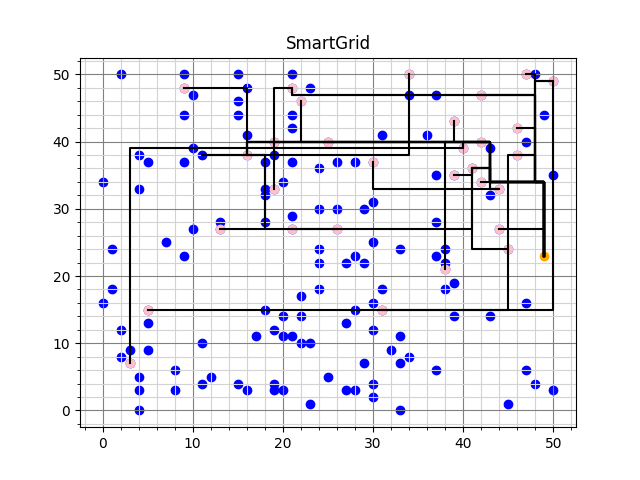
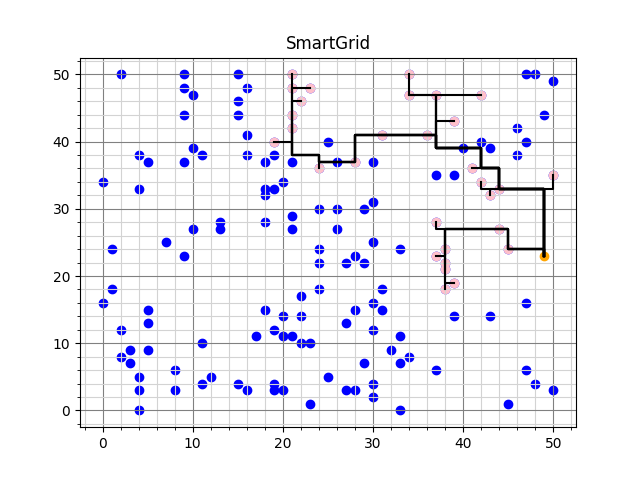
ZSKBU

Changed region(s): [[0.2188, 0.125, 0.875, 0.6562], [0.2812, 0.1562, 0.375, 0.1875], [0.1875, 0.7188, 0.2188, 0.7812]]

diff --git a/main.py b/main.py
@@ -24,13 +24,14 @@ if __name__ == "__main__":
     # file_name = "/home/thomas61197/SmartGrid/data/solutions/best_greedy_100k.pickle"
     # file_name = "/home/thomas61197/SmartGrid/data/solutions/best_original_greedy.pickle"
     # file_name = "/home/thomas61197/SmartGrid/data/solutions/simanneal_cable_to_cable_34.pickle"
-    file_name = "/home/thomas61197/SmartGrid/data/solutions/10k_it_or_greedy_ctc_dis1.pickle"
+    # file_name = "/home/thomas61197/SmartGrid/data/solutions/10k_it_or_greedy_ctc_dis1.pickle"
     # file_name = "/home/thomas61197/SmartGrid/data/solutions/best_baseline_100k.pickle"
+    file_name = "/home/thomas61197/SmartGrid/data/solutions/10k_it_or_greedy_ctc_dis1_1mil_it_simanneal_36_ctc.pickle"
 
     with open(file_name, 'rb') as handle:
         # best_greedy = pickle.load(handle)
-        best_original_greedy = pickle.load(handle)
-        # simanneal_cable_to_cable = pickle.load(handle)
+        # best_original_greedy = pickle.load(handle)
+        simanneal_cable_to_cable = pickle.load(handle)
         # best_base = pickle.load(handle)
 
     # best_original_greedy.grid.print_status_batteries()
@@ -148,15 +149,15 @@ if __name__ == "__main__":
     # Simulated annealing 2 is different from simulated annealing 1 in that this one decreases the mutate_house_number linearly with 
     # each iteration, whereas in the other one the mutate_house_number is static.
 
-    # print("Setting up Simulated Annealing...")
-    # simanneal = simulated_annealing.Simulated_annealing(best_original_greedy.grid, temperature=(51+51)*9, mutate_house_number = 3
-    # , alpha = 0.99999, cooling_scheme="exponential", cable_to_cable = True)
+    print("Setting up Simulated Annealing...")
+    simanneal = simulated_annealing.Simulated_annealing(simanneal_cable_to_cable.grid, temperature=(51+51)*9, mutate_house_number = 3
+    , alpha = 0.994, cooling_scheme="exponential", cable_to_cable = True, lay_cable = "to_random_house")
     
-    # print("Running Simulated Annealing...")
-    # simanneal.run(1000000, verbose=True, decreasing_mutate_house_number = False)
+    print("Running Simulated Annealing...")
+    simanneal.run(1000, verbose=True, decreasing_mutate_house_number = False)
     
-    # # print(f"Value of the configuration after Simulated Annealing: "
-    # #       f"{simanneal.grid.calc_cost2()}")
+    print(f"Value of the configuration after Simulated Annealing: "
+          f"{simanneal.grid.calc_cost2()}")
 
     # simanneal_id = 36
 
@@ -190,19 +191,19 @@ if __name__ == "__main__":
 
     # --------------------------- Hill Climber (fix) ---------------------------------
     
-    print("Setting up Hill Climber...")
-    climber = hill_climber.Hill_climber(best_original_greedy.grid, mutate_house_number = 3, cable_to_cable = True
-    , minimalize_surplus = True, with_checkpoints = False, lay_cable = "to_random_house")
+    # print("Setting up Hill Climber...")
+    # climber = hill_climber.Hill_climber(simanneal_cable_to_cable.grid, mutate_house_number = 3, cable_to_cable = True
+    # , minimalize_surplus = True, with_checkpoints = False, lay_cable = "to_closest_cable")
 
-    # print("Running Hill Climber...")
-    climber.run(1000, verbose=True)
+    # # print("Running Hill Climber...")
+    # climber.run(10000, verbose=True)
 
-    print(f"Value of the configuration after Hill Climber: "
-          f"{climber.grid.calc_cost2()}")
+    # print(f"Value of the configuration after Hill Climber: "
+    #       f"{climber.grid.calc_cost2()}")
 
     # if climber.grid.is_valid():
-    #     climber_id = 12
-    #     file_name = f"SmartGrid/data/solutions/10k_or_greedy_ctc_dis1_100k_hc_fix_{climber_id}_ctc.pickle"
+    #     climber_id = 7
+    #     file_name = f"SmartGrid/data/solutions/best_solution_yet2.pickle"
 
     #     with open(file_name, 'wb') as handle:
     #         pickle.dump(climber, handle)
@@ -210,12 +211,12 @@ if __name__ == "__main__":
     # --------------------------- visualisation --------------------------
     # visualise_cables.visualise(greedy3.grid)
 
-    # visualise_cables.visualise(simanneal.grid, district_number)
-    # visualise_cables.visualise_apart(simanneal.grid, district_number)
+    visualise_cables.visualise(simanneal.grid, district_number)
+    visualise_cables.visualise_apart(simanneal.grid, district_number)
     # visualise_cables.visualise_house_apart(simanneal.grid, district_number)
 
-    visualise_cables.visualise(climber.grid, district_number)
-    visualise_cables.visualise_apart(climber.grid, district_number)
+    # visualise_cables.visualise(climber.grid, district_number)
+    # visualise_cables.visualise_apart(climber.grid, district_number)
 
     # visualise_cables.visualise(best_greedy.grid, district_number)
     # visualise_cables.visualise_apart(best_greedy.grid, district_number)

diff --git a/code/algorithms/simulated_annealing.py b/code/algorithms/simulated_annealing.py
@@ -12,9 +12,9 @@ class Simulated_annealing(Hill_climber):
     Most of the functions are similar to those of the HillClimber class, which is why
     we use that as a parent class.
     """
-    def __init__(self, empty_grid, temperature=1, cooling_scheme="linear", alpha=0.99, mutate_house_number=20, cable_to_cable = True):
+    def __init__(self, grid, temperature=1, cooling_scheme="linear", alpha=0.99, mutate_house_number=3, cable_to_cable = True, lay_cable = "to_closest_cable"):
         # Use the init of the Hillclimber class
-        super().__init__(empty_grid, mutate_house_number, cable_to_cable)
+        super().__init__(grid=grid, mutate_house_number=mutate_house_number, cable_to_cable=cable_to_cable, lay_cable=lay_cable)
 
         # Starting temperature and current temperature
         self.T0 = temperature

diff --git a/code/algorithms/hill_climber.py b/code/algorithms/hill_climber.py
@@ -94,7 +94,7 @@ class Hill_climber:
             # print(f"new_surplus: {new_surplus}")
 
             if new_surplus <= old_surplus and new_cost <= old_cost:
-            # if new_surplus <= old_surplus:
+            # if new_surplus < old_surplus:
                 self.grid = new_grid
                 self.surplus = new_surplus
                 self.cost = new_cost
